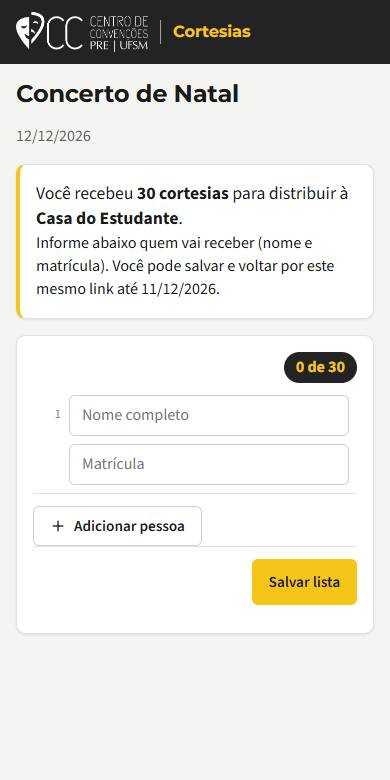
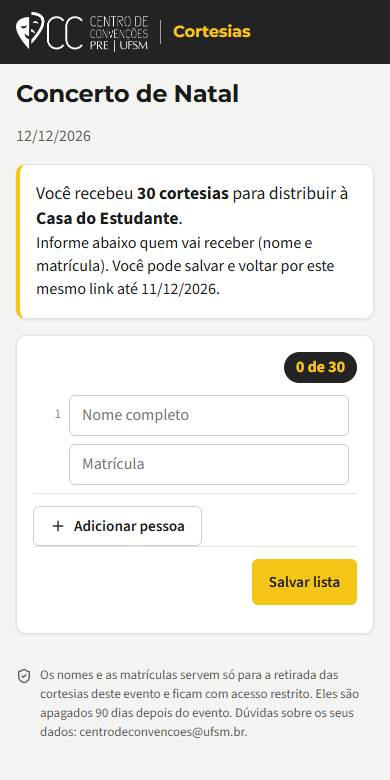
docs: versão 0.15.0 no manual, na implantação e no guia; prints novos
- Manual do app: "O que precisa de você", incluir sessões no lote,
  WhatsApp, saúde do sistema e prazos da LGPD; prints refeitos.
- docs/implantacao.md seção 26 (publicar a 0.15.0), docs/manual/uso.md
  e guia de passagem (saúde do sistema e limpeza automática).
- Início no celular: ícone da pendência ao lado do texto.

Changed region(s): [[0.0308, 0.8615, 0.9231, 0.9538]]

diff --git a/app/src/telas/manual/Manual.tsx b/app/src/telas/manual/Manual.tsx
@@ -91,8 +91,9 @@ const SECOES: Secao[] = [
   },
   {
     id: 'inicio', titulo: 'Início, busca e avisos', icone: Home, publico: 'gestao',
-    serve: 'Ver o dia e a semana e chegar rápido a cada parte do sistema.',
+    serve: 'Ver o que precisa de você, o dia e a semana, e chegar rápido a cada parte do sistema.',
     passos: [
+      <><strong>O que precisa de você</strong>, no alto: as pendências com prazo (presença, escala a publicar, apoio sem equipe, ficha técnica sem resposta, lote de pagamento, contratos), da mais urgente para a menos. Toque para ir direto.</>,
       'Os atalhos coloridos levam direto a cada área: agenda, fichas, escalas, pagamentos e as demais.',
       <><strong>Hoje</strong> e <strong>Próximos 7 dias</strong> mostram os eventos e quantas vagas já estão preenchidas (ex.: 4/4).</>,
       <>A <strong>busca</strong>, no alto, encontra eventos e pessoas e entende perguntas como "quem está escalado sábado?".</>,
@@ -118,7 +119,7 @@ const SECOES: Secao[] = [
     serve: 'O produtor preenche horários, camarins, poltronas reservadas e coffee break por um link, sem login.',
     passos: [
       <>Abra o evento e use <strong>Ficha técnica → Gerar link da ficha técnica</strong>.</>,
-      <><strong>Enviar por e-mail</strong> (você confere o texto antes) ou <strong>Copiar mensagem para o produtor</strong> e cole no WhatsApp.</>,
+      <><strong>Enviar por e-mail</strong> (você confere o texto antes) ou <strong>Abrir no WhatsApp</strong>, com a mensagem pronta.</>,
       'O produtor preenche em etapas e marca as poltronas no mapa. Ele pode corrigir até 2 dias antes da primeira sessão.',
       <>Acompanhe tudo em <strong>Fichas técnicas</strong> (menu): enviadas, aguardando e com prazo na semana.</>,
       <><strong>Lançar montagem e desmontagem na agenda do CC</strong> cria as atividades de apoio do evento a partir da ficha.</>,
@@ -139,7 +140,7 @@ const SECOES: Secao[] = [
     serve: 'Repartir as cortesias entre destinos (ex.: Casa do Estudante); cada destino lança os nomes pelo link.',
     passos: [
       <>No evento, <strong>Cortesias → Novo destino</strong>: nome do destino e quantidade.</>,
-      <><strong>E-mail</strong> manda o link ao responsável do destino (você confere antes); ou <strong>Copiar mensagem</strong> para o WhatsApp.</>,
+      <><strong>E-mail</strong> ou <strong>WhatsApp</strong> mandam a mensagem com o link ao responsável do destino.</>,
       'O destino lança nome e matrícula de quem vai receber, até o dia anterior ao evento.',
       <><strong>Imprimir lista</strong> no dia do evento: ordem alfabética, com a coluna para marcar a retirada.</>,
     ],
@@ -183,6 +184,7 @@ const SECOES: Secao[] = [
     passos: [
       <><strong>Pagamentos → Novo lote</strong>: escolha as sessões realizadas (com presença confirmada).</>,
       'Copie ou baixe a ficha de indicação do lote e envie ao setor de pagamento.',
+      <>Esqueceu uma sessão? No lote ainda não pago, use <strong>Incluir sessões</strong>.</>,
       'Quando o pagamento sair, marque o lote como pago.',
     ],
     prints: [{ arquivo: 'pagamentos', legenda: 'Pagamentos', formato: 'pc' }],
@@ -233,6 +235,8 @@ const SECOES: Secao[] = [
       <><strong>Pessoas → Nova pessoa</strong>: nome, e-mail, matrícula, tipo (bolsista/servidor) e vínculo (fixo/eventual).</>,
       'A senha inicial é a matrícula. Para quem esqueceu: Redefinir senha para a matrícula.',
       <><strong>Configurações</strong>: diária padrão, vagas padrão, feriados, edital/iniciativa, FUNDEP, links (ex.: folder do CC).</>,
+      <><strong>Configurações → Saúde do sistema</strong>: último backup, rotinas automáticas, agenda Google, e-mails do dia e erros recentes.</>,
+      <><strong>Configurações → Dados pessoais (LGPD)</strong>: em quantos dias depois do evento o sistema apaga os nomes das cortesias e os dados do responsável da ficha.</>,
     ],
     prints: [{ arquivo: 'pessoas', legenda: 'Pessoas', formato: 'pc' }],
   },

diff --git a/app/src/telas/inicio/inicio.css b/app/src/telas/inicio/inicio.css
@@ -23,15 +23,15 @@
   flex-shrink: 0;
 }
 /* pendência: ícone e texto à esquerda, prazo sempre inteiro à direita */
-.inicio-pendencia {
+.inicio-lista .inicio-pendencia {
   flex-wrap: nowrap;
   align-items: flex-start;
   gap: 10px;
 }
-.inicio-pendencia .inicio-icone-pendencia {
+.inicio-lista .inicio-pendencia .inicio-icone-pendencia {
   margin-top: 2px;
 }
-.inicio-pendencia-prazo {
+.inicio-lista .inicio-pendencia-prazo {
   flex: none;
   flex-wrap: nowrap;
 }

diff --git a/docs/implantacao.md b/docs/implantacao.md
@@ -507,3 +507,24 @@ Nada disso vai para a agenda Google sozinho. Para tirar tudo, rode `resetarDados
 3. Crie uma **Nova versão** e confira se o `/exec` mostra `"versao":"0.14.0"`.
 4. Depois disso, publique o site.
 
+## 26. Início com pendências, saúde do sistema e LGPD (versão 0.15.0)
+
+**Novidades:**
+- **O que precisa de você:** no alto do Início dos gestores, as pendências com prazo, da mais urgente para a menos. Entram também ficha técnica sem resposta, escala a publicar, apoio sem equipe e sessões aguardando lote de pagamento.
+- **Saúde do sistema:** em Configurações, para quem administra. Mostra o último backup, a rotina de 5 minutos, a agenda Google, os e-mails restantes no dia, os 10 últimos erros e o tamanho das abas.
+- **LGPD:**
+  - As páginas públicas da ficha técnica e das cortesias trazem um aviso de privacidade.
+  - Depois do backup diário, o sistema apaga os nomes e matrículas das cortesias (90 dias depois do evento) e o documento, matrícula, e-mail e telefone do responsável da ficha (180 dias). O nome do responsável e a contagem das cortesias ficam.
+  - Os prazos ficam em Configurações (0 = nunca). Cada limpeza entra no histórico.
+  - Os backups guardam os dados por mais 30 dias, até serem apagados.
+- **Pagamentos:** "Incluir sessões" num lote ainda não pago.
+- **Contratos:** o campo `{{VALOR_EXTENSO}}` dos modelos passa a ser preenchido.
+- **WhatsApp:** botão na ficha técnica e em cada destino de cortesias.
+- **Site mais leve no celular:** cada tela de gestão carrega só quando é aberta.
+
+**Para publicar:**
+1. Cole o `Code.js` novo e salve (o `appsscript.json` não mudou).
+2. Rode o **`instalar`**. Ele acrescenta as colunas `dadosApagadosEm` (aba `fichas`), `apagadoEm` e `nomesApagados` (aba `cortesiasDestinos`).
+3. Crie uma **Nova versão** e confira se o `/exec` mostra `"versao":"0.15.0"`.
+4. Depois disso, publique o site.
+

diff --git a/docs/manual/uso.md b/docs/manual/uso.md
@@ -34,6 +34,7 @@ Manual resumido, sem dados reais. Ele serve de contexto para as perguntas sobre 
 - **Meus ganhos:** mostra o previsto, o enviado para pagamento e o já pago.
 - **Lotes (gestores):** em **Pagamentos → Novo lote**, escolha as sessões realizadas.
 - **Ficha de indicação:** é copiada ou baixada a partir do lote.
+- **Esqueceu uma sessão:** no lote ainda não pago, use **Incluir sessões**.
 
 ## Almoxarifado e prédio
 
@@ -79,3 +80,9 @@ Manual resumido, sem dados reais. Ele serve de contexto para as perguntas sobre 
 - **Onde:** ficha técnica (ao produtor), cortesias (ao destino), escala publicada (à equipe), lembrete da rodada, pedido à FUNDEP e senha redefinida.
 - **Privacidade:** cada pessoa recebe o seu e-mail e não vê os endereços dos outros. Só o pedido à FUNDEP vai junto, para todos os destinatários.
 - **Limite:** o Google deixa mandar cerca de 100 e-mails por dia. A janela de e-mail mostra quantos ainda cabem.
+
+## Início, saúde do sistema e LGPD
+
+- **O que precisa de você:** no alto do Início, para gestores. Junta as pendências com prazo (presença, escala a publicar, apoio sem equipe, ficha técnica sem resposta, lote de pagamento, contratos), da mais urgente para a menos.
+- **Saúde do sistema:** em **Configurações**. Mostra o último backup, as rotinas automáticas, a agenda Google, os e-mails do dia e os erros recentes.
+- **Dados pessoais (LGPD):** as páginas da ficha técnica e das cortesias dizem para que servem os dados. O sistema apaga sozinho, depois do evento, os nomes das cortesias (90 dias) e os dados do responsável da ficha (180 dias). Os prazos ficam em **Configurações**.

diff --git a/docs/guia-de-passagem.md b/docs/guia-de-passagem.md
@@ -154,6 +154,7 @@ O histórico de cada versão e o que cada uma pediu na publicação está em `do
 | Pedido de autorização ao rodar uma função | Aceitar com a conta do setor (o Google pede de novo quando entra uma permissão nova) |
 | `/exec` mostra a versão antiga | Faltou criar a **Nova versão** em Gerenciar implantações |
 | Evento não aparece na agenda Google | O gatilho de 5 minutos tenta de novo sozinho. Confira em **Execuções** se há erro |
+| Quer ver se está tudo funcionando | **Configurações → Saúde do sistema**: último backup, rotinas, agenda, e-mails e erros recentes |
 
 ---
 
@@ -165,6 +166,7 @@ O histórico de cada versão e o que cada uma pediu na publicação está em `do
 - **E-mails do sistema:** cada pessoa recebe o seu e não vê os endereços dos outros. O histórico guarda quem mandou, o assunto e quantas pessoas, sem os endereços.
 - **Pessoas que saem:** desative o cadastro em vez de apagar, para manter o histórico. Para apagar dados de alguém a pedido da pessoa, remova as linhas dela nas planilhas Dados e Sigiloso.
 - **Dados de teste:** os fictícios usam e-mails `@teste.invalid` e nomes "TESTE"; o `resetarDados` remove todos.
+- **Limpeza automática:** depois do evento, o sistema apaga os nomes das cortesias (90 dias) e os dados do responsável da ficha (180 dias). Os prazos ficam em **Configurações → Dados pessoais (LGPD)**, e os backups guardam esses dados por mais 30 dias.
 
 ---
 
